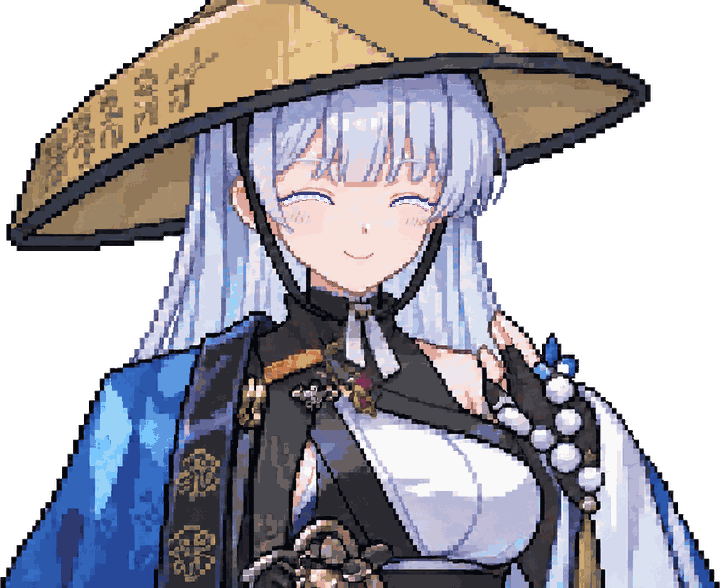
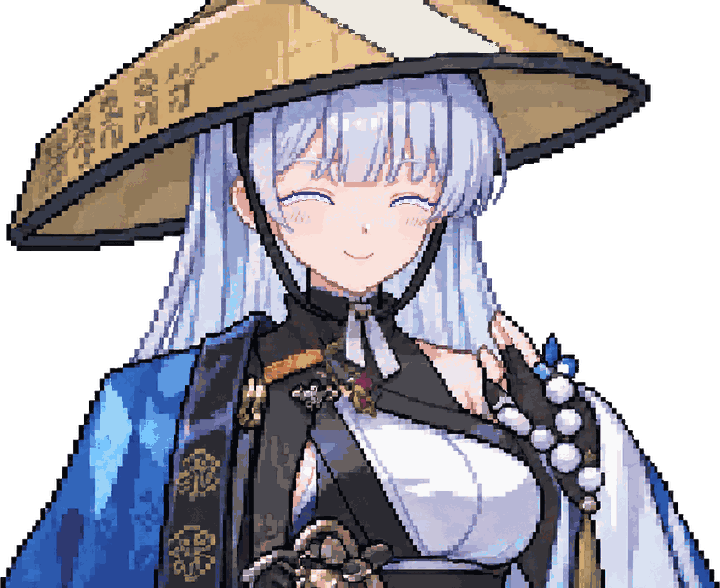
나유타 삿갓 꼭대기를 원본처럼 흰색(빛 반사)으로 채움

Changed region(s): [[0.4278, 0.0, 0.7028, 0.1224]]

diff --git a/tools/fix_nayuta_hat.py b/tools/fix_nayuta_hat.py
@@ -43,9 +43,8 @@ for f in sorted(glob.glob('assets/portraits/nayuta_*.png')):
         for dy,dx in ((1,0),(-1,0),(0,1),(0,-1)):
             ny,nx=y+dy,x+dx
             if 0<=ny<H and 0<=nx<W and cand[ny,nx] and not hole[ny,nx]: hole[ny,nx]=True; q.append((ny,nx,dd+1))
-    # 밝은 삿갓 면의 대표색 하나로 평평하게 채운다(도트 그림의 면 처리)
-    src=hat&~pink&(lum>150)&(a>=250)
-    col=np.median(im[src][:,:3],axis=0)
+    # 원본 그림에서 이 자리는 빛을 받아 흰색이다 → 흰색 한 가지로 평평하게 채운다(도트 그림의 면 처리)
+    col=np.array([238,234,226])
     o=im.copy(); o[hole,:3]=col; o[hole,3]=255
     o=Image.fromarray(o.astype(np.uint8))
     o.save(f if SAVE else S+'/fix_'+f.split('/')[-1])
